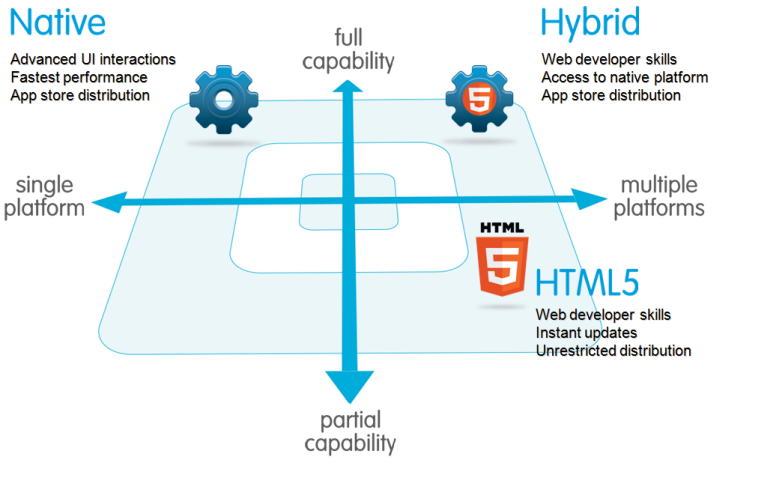
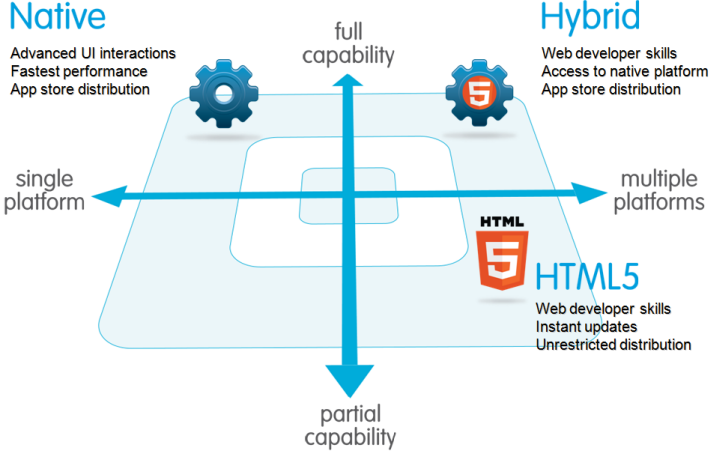
Fixes for slides. Updated the native img to be clipped

Changed region(s): [[0.0, 0.0, 1.0, 0.9868], [0.1239, 0.5551, 0.3099, 0.7093]]

diff --git a/index.html b/index.html
@@ -48,7 +48,7 @@
       .reveal section img {
         background-color: transparent;
         border: 0;
-        box-shadow: 0
+        box-shadow: none !important;
       }
       .reveal .pill {
         border: solid 1px white;
@@ -453,11 +453,65 @@ angular.module('starter', ['ionic', 'starter.controllers', 'starter.services'])
         </section>
 
         <section>
+          <pre><code>
+angular.module('starter.services', [])
+
+/**
+ * A simple example service that returns some data.
+ */
+.factory('Friends', function() {
+  // Might use a resource here that returns a JSON array
+
+  // Some fake testing data
+  var friends = [
+    { id: 0, name: 'Scruff McGruff' },
+    { id: 1, name: 'G.I. Joe' },
+    { id: 2, name: 'Miss Frizzle' },
+    { id: 3, name: 'Ash Ketchum' }
+  ];
+
+  return {
+    all: function() {
+      return friends;
+    },
+    get: function(friendId) {
+      // Simple index lookup
+      return friends[friendId];
+    }
+  }
+});
+          </code></pre>
+          <button class="code_enlarge">Enlarge</button>
+        </section>
+
+        <section>
+          <pre><code>
+angular.module('starter.controllers', [])
+
+.controller('DashCtrl', function($scope) {
+})
+
+.controller('FriendsCtrl', function($scope, Friends) {
+  $scope.friends = Friends.all();
+})
+
+.controller('FriendDetailCtrl', function($scope, $stateParams, Friends) {
+  $scope.friend = Friends.get($stateParams.friendId);
+})
+
+.controller('AccountCtrl', function($scope) {
+});
+
+          </code></pre>
+          <button class="code_enlarge">Enlarge</button>
+        </section>
+
+        <section>
           <h2>Where to find plugins</h2>
           <ul>
-            <li><a href="http://plugins.cordova.io">Cordova Plugin Registry</a></li>
-            <li><a href="http://plugreg.com">PlugReg - plugin registry</a></li>
-            <li><a href="https://build.phonegap.com/plugins">PhoneGap Build Plugins</a></li>
+            <li>Cordova Plugin Registry <a href="http://plugins.cordova.io"><i class="ion-link"></i></a></li>
+            <li>PlugReg - plugin registry <a href="http://plugreg.com"><i class="ion-link"></i></a></li>
+            <li>PhoneGap Build Plugins <a href="https://build.phonegap.com/plugins"><i class="ion-link"></i></a></li>
             <li>Github - search at your own risk!</li>
           </ul>
         </section>
@@ -475,9 +529,10 @@ angular.module('starter', ['ionic', 'starter.controllers', 'starter.services'])
         <section>
           <h2>Let others install your app!</h2>
           <ul>
-            <li><a href="https://build.phonegap.com/">PhoneGap Build</a></li>
-            <li><a href="http://testflightapp.com">TestFlight</a> / <a href="http://hockeyapp.com">HockeyApp</a></li>
-            <li><a href="https://www.npmjs.org/package/cordova-deploy">Cordova Deploy</a></li>
+            <li>PhoneGap Build <a href="https://build.phonegap.com/"><i class="ion-link"></i></a></li>
+            <li>TestFlight <a href="http://testflightapp.com"><i class="ion-link"></i></a></li>
+            <li>HockeyApp <a href="http://hockeyapp.com"><i class="ion-link"></i></a></li>
+            <li>Cordova Deploy <a href="https://www.npmjs.org/package/cordova-deploy"><i class="ion-link"></i></a></li>
           </ul>
         </section>
 
@@ -495,10 +550,7 @@ angular.module('starter', ['ionic', 'starter.controllers', 'starter.services'])
         <section>
           <h2>Error reporting</h2>
           <ul>
-            <li><a href="https://rollbar.com/">RollBar</a></li>
-            <li><a href="https://errorception.com/">Errorception</a></li>
-            <li><a href="http://blog.newrelic.com/2014/03/13/javascript-error-reporting-ajax-timing-new-relic/">New Relic</a></li>
-            <li>And many more..</li>
+            <li>Tons of JS Reporters, use your favorite</li>
           </ul>
         </section>
 
